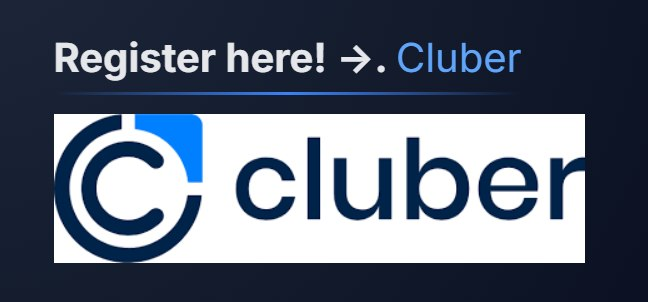
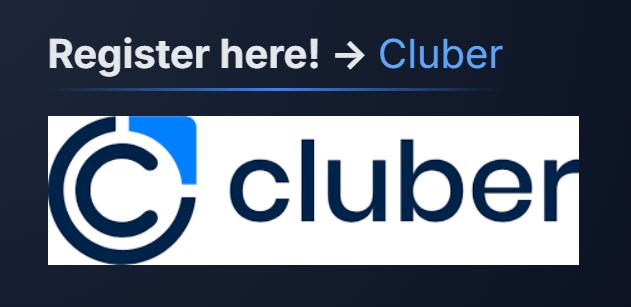
fotos inscripcion

Changed region(s): [[0.0602, 0.3576, 0.9334, 0.894], [0.0602, 0.1192, 0.813, 0.3278], [0.3312, 0.1192, 0.3613, 0.149]]

diff --git a/index-gal.html b/index-gal.html
@@ -171,7 +171,7 @@
     <a href="inscripcion-torneo-ajedrez-lugo-fuxan-os-ventos-gal.html" class="seccion-link">
         <div class="seccion fade-left">
 
-            <img src="inscripcion123.jpg" alt="Inscrición torneo xadrez" class="img-seccion">
+            <img src="inscripcion123-gal.jpg" alt="Inscrición torneo xadrez" class="img-seccion">
 
             <div class="texto-seccion">
                 <h2>¡Inscríbete agora!</h2>
